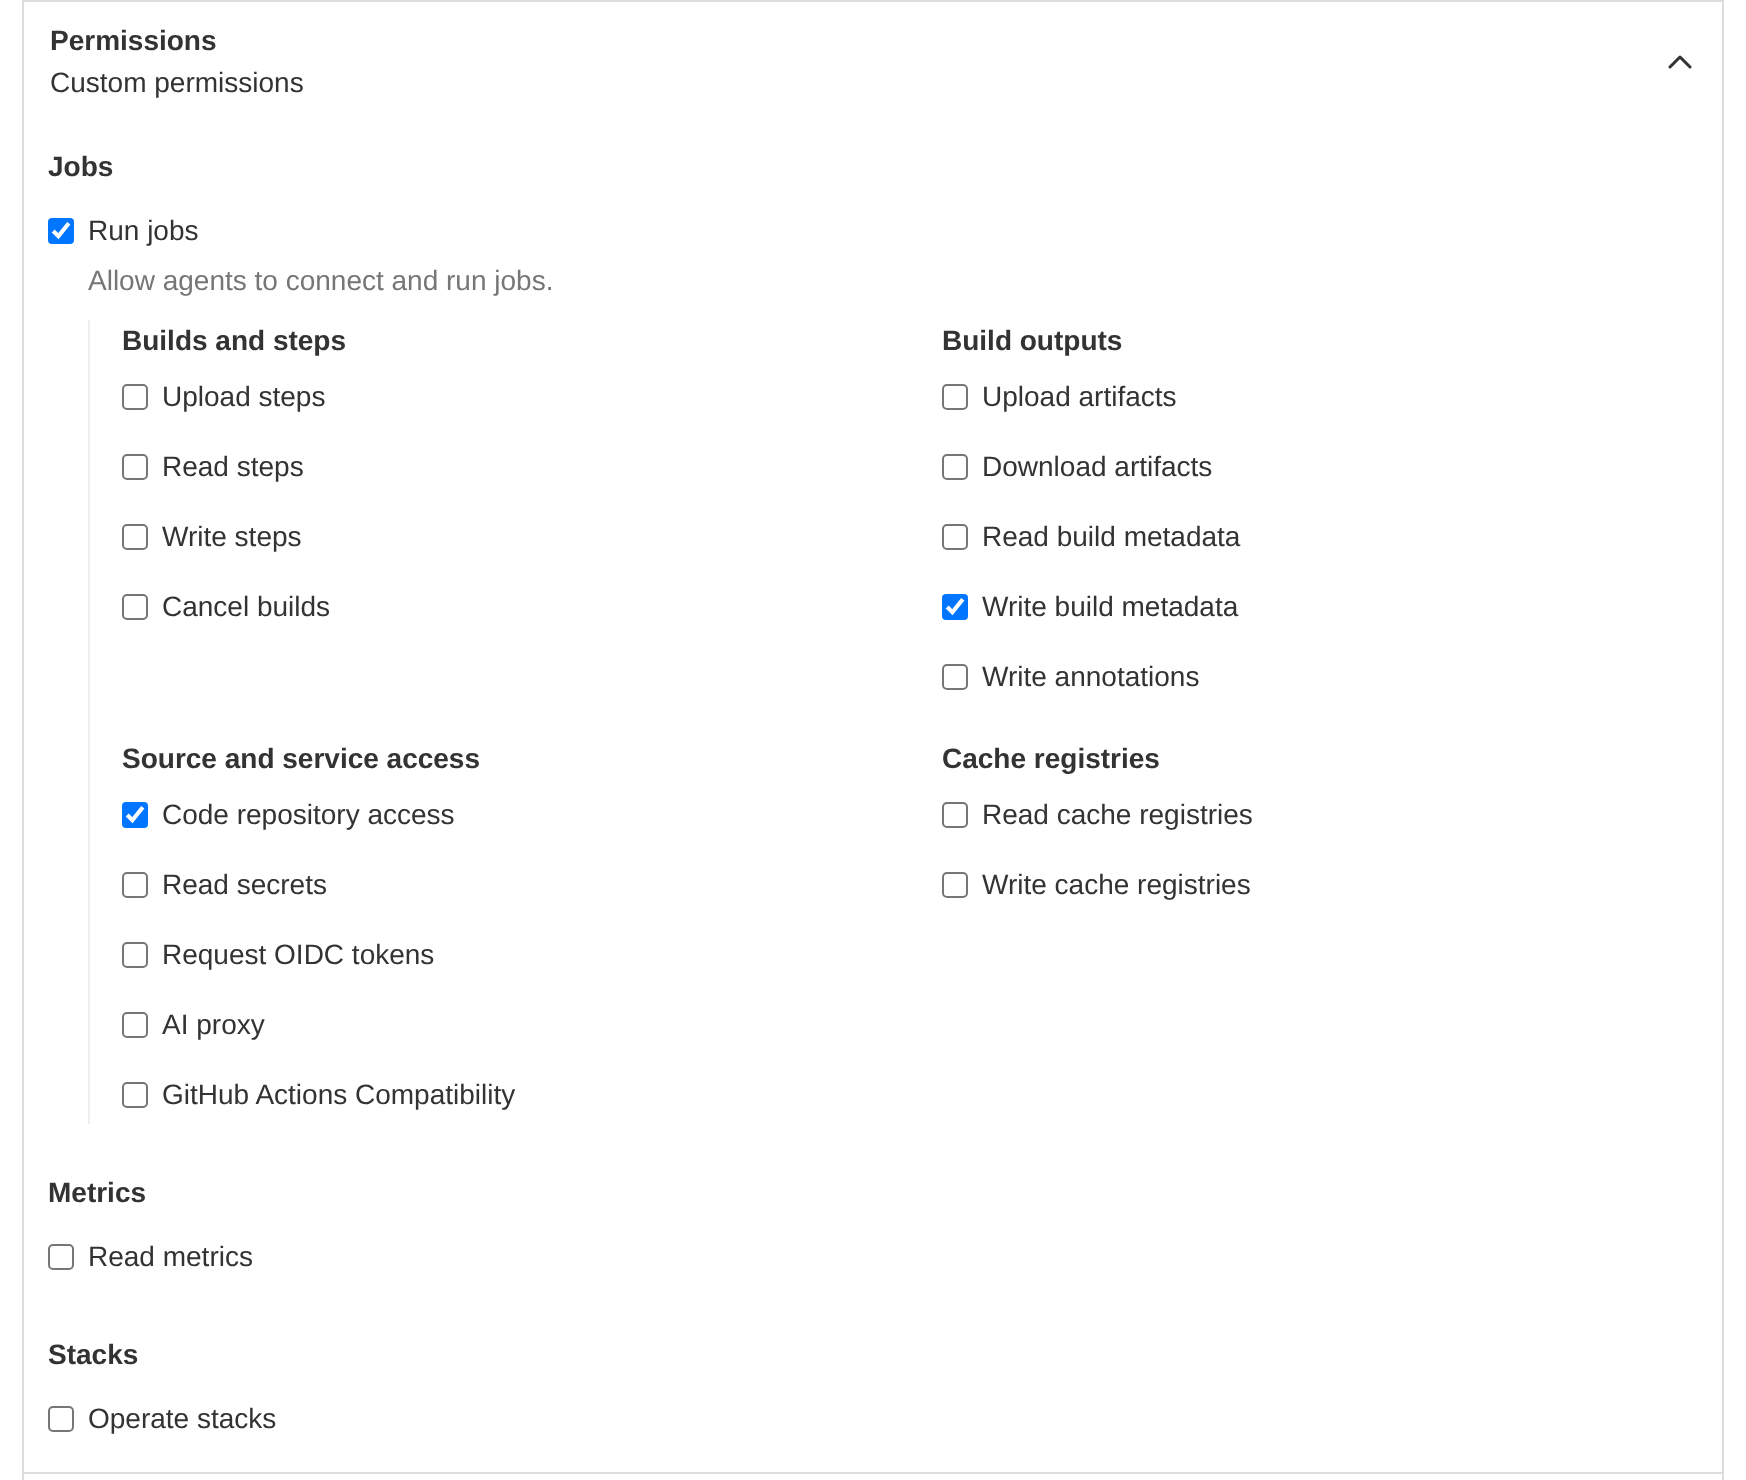
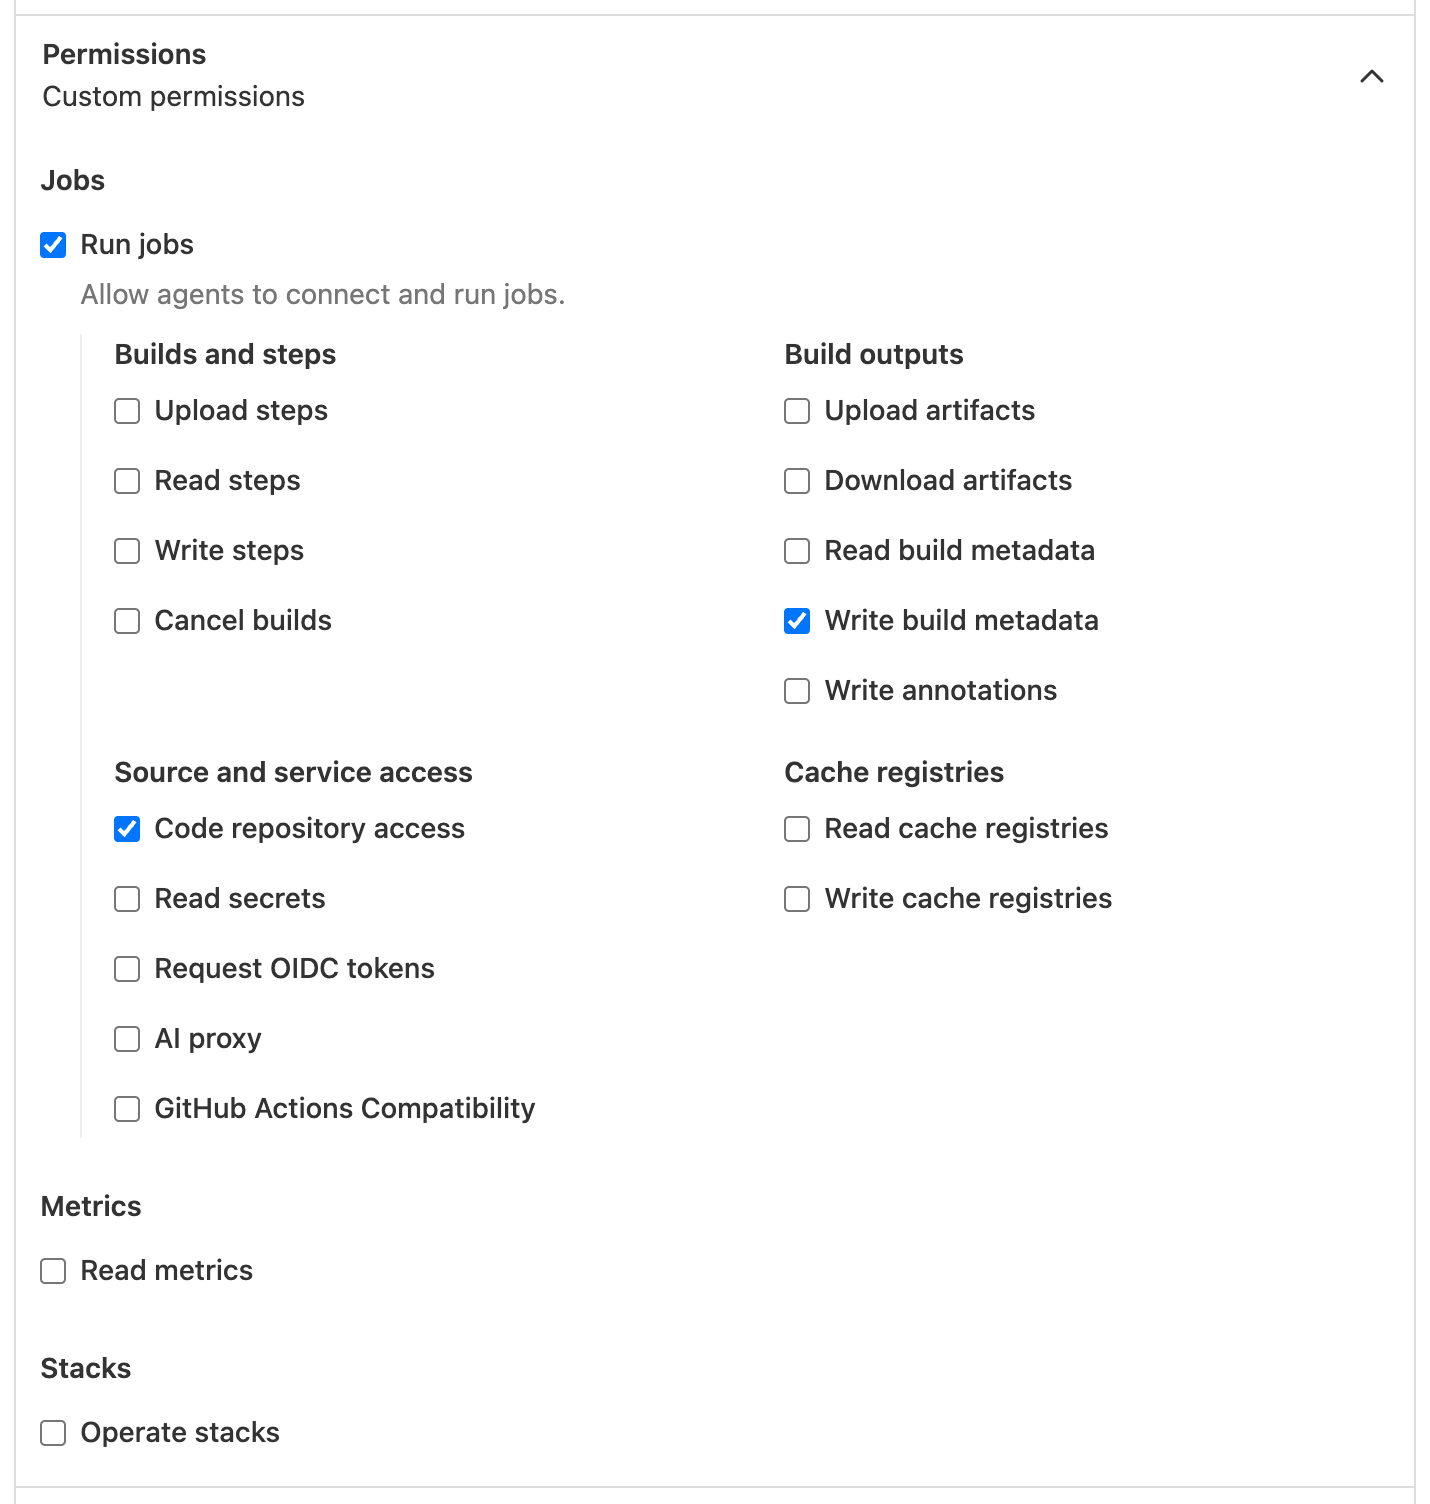
Refresh restricted token permissions with theme pair and recipe
Amp-Thread-ID: https://ampcode.com/threads/T-82442ed7-d7c2-4a77-bc85-9b37cb23f52a

diff --git a/images/docs/agent/self_hosted/scoped_agent_tokens/restricted-permissions.md b/images/docs/agent/self_hosted/scoped_agent_tokens/restricted-permissions.md
@@ -1,0 +1,12 @@
+# Restricted agent token permissions
+
+Recreate the permissions example shown in [Separate pipeline uploaders from other jobs](/docs/agent/self-hosted/scoped-agent-tokens#separate-pipeline-uploaders-from-other-jobs), following the [shared screenshot guidance](../../../../../styleguides/working-with-docs-site.md#screenshots).
+
+Use an existing cluster in a dedicated integration test organization. You need permission to open the new agent token form, such as cluster maintainer access. Never create, edit, or expose an actual token.
+
+1. Use Chrome for Testing 158 on macOS with a 1040 × 900 CSS-pixel viewport, 100% zoom, and pixel density two. Use **System** appearance, set browser color-scheme emulation to light, and verify the product renders in light mode. Wait for `document.fonts.ready` and verify the actual rendered labels and help text use the native system font (`.SF NS` in Chromium).
+1. Select **Agents** > your cluster > **Agent Tokens** > **New Token**. Note the token count and verify the fresh form has **All queues** and **Full agent access by default**. Expand **Permissions**. Leave only **Run jobs**, **Write build metadata**, and **Code repository access** selected. Clear every other permission, including **Upload steps** and **Write steps**. Verify that the summary says **Custom permissions**. Leave all other form fields unchanged.
+1. Scroll until the top of **Permissions** is at y≈94 CSS pixels. Wait for the disclosure arrow to finish rotating. Crop the viewport from (282, 86) at 715 × 752 CSS pixels. Include the complete expanded section from **Permissions** through **Operate stacks** with balanced padding. Crop out other form fields, **Create Token**, navigation, and cluster identity. Do not hide or restyle elements. Move the pointer off the subject and clear focus styling.
+1. Save `restricted-permissions.png`. Leave without selecting **Create Token**. Verify the token count is unchanged and a fresh **New Token** form has the defaults again. Repeat from fresh navigation with dark color-scheme emulation, verifying the actual dark product theme, and save `restricted-permissions-dark.png`. Match the viewport, zoom, scroll, selections, and crop. Discard the form again.
+
+Accept two 1430 × 1504 PNGs intended to display at 715 × 752 CSS pixels. Check that the complete permission groups, **Custom permissions**, and the **Run jobs** help are legible. Only the three intended permissions are checked. Exclude token details or credentials, all other form fields, the pointer, and hover or focus styling.

diff --git a/pages/agent/self_hosted/scoped_agent_tokens.md b/pages/agent/self_hosted/scoped_agent_tokens.md
@@ -31,7 +31,7 @@ Use a dedicated token and queue for trusted jobs that run `buildkite-agent pipel
 
 Give lint, test, or documentation agents a separate token without `upload_steps` or `write_steps`. Those jobs cannot upload new steps or update existing steps through the Agent API. Bind each token to its intended queues, and keep the trusted token and its infrastructure inaccessible to restricted jobs.
 
-<%= image "restricted-permissions.png", width: 1746/2, height: 1480/2, alt: "Token permissions with Run jobs, Write build metadata, and Code repository access selected, and Upload steps and Write steps cleared" %>
+<%= image "restricted-permissions.png", width: 1430/2, height: 1504/2, alt: "Token permissions with Run jobs, Write build metadata, and Code repository access selected, and Upload steps and Write steps cleared" %>
 
 **Run jobs** remains selected; **Upload steps** and **Write steps** are cleared. This example also allows repository access and checkout metadata. Add the artifact, secret, cache, or other permissions your workload needs.
 
